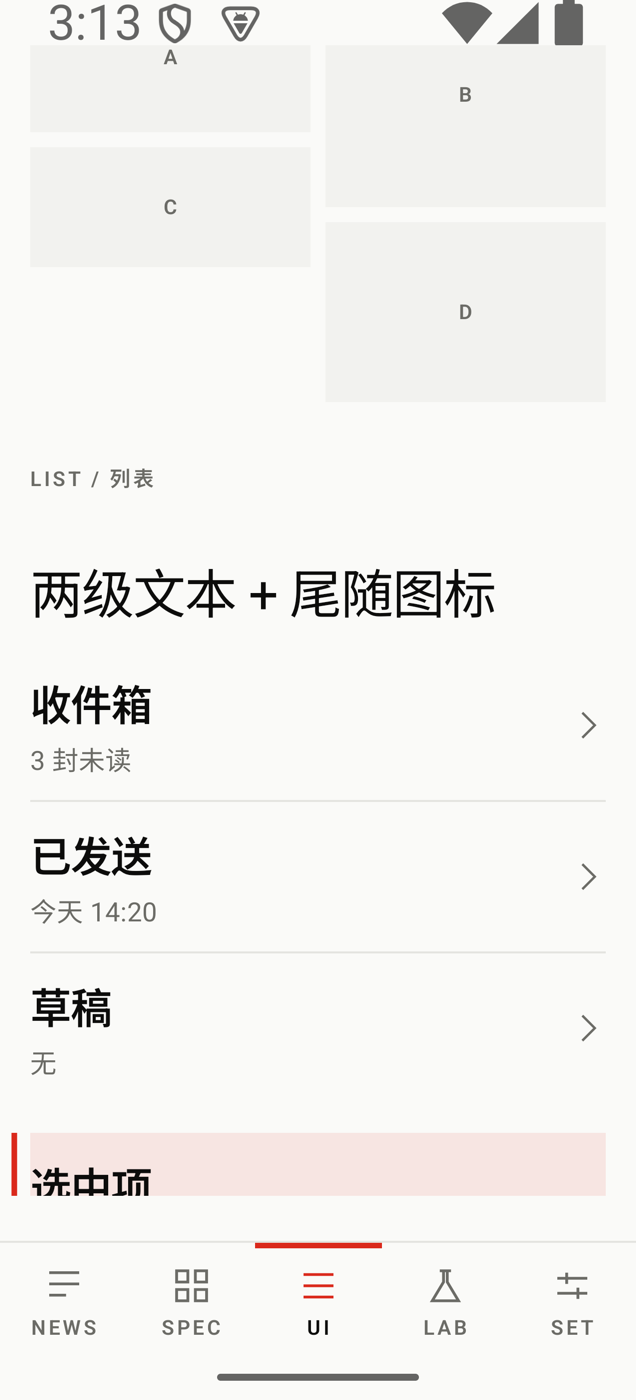
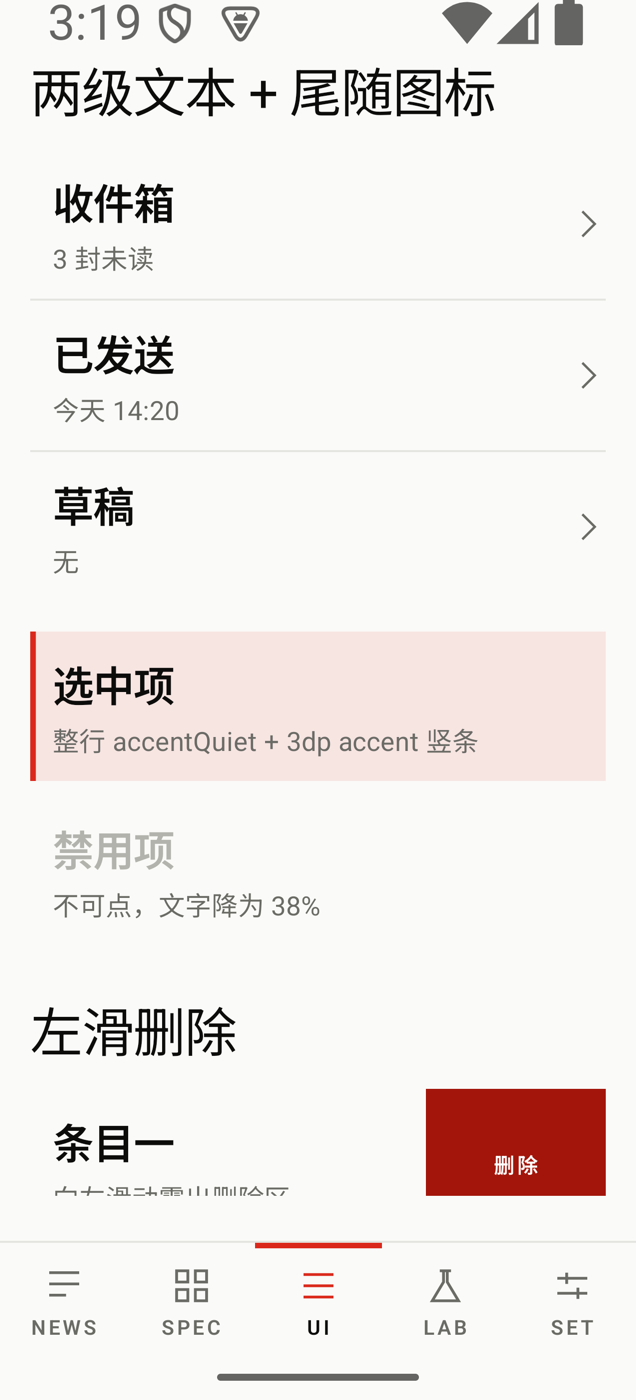
fix: v0.14.6 选中竖条回到色块内
上一版把竖条画到容器外，与 accentQuiet 色块分离。改回色块内部最左，
并给 OmListItem 加恒定 12dp 左内边距，竖条与文字保持 9dp 间隙。

注意：列表文字会比同屏磁贴右偏 12dp

diff --git a/omui-components/src/main/kotlin/io/openmetro/ui/component/content/OmList.kt b/omui-components/src/main/kotlin/io/openmetro/ui/component/content/OmList.kt
@@ -13,7 +13,6 @@ import androidx.compose.runtime.Composable
 import androidx.compose.ui.Alignment
 import androidx.compose.ui.Modifier
 import androidx.compose.ui.draw.drawBehind
-import androidx.compose.ui.geometry.Offset
 import androidx.compose.ui.geometry.Size
 import androidx.compose.ui.graphics.Color
 import androidx.compose.ui.semantics.Role
@@ -88,18 +87,16 @@ fun OmListItem(
             .background(if (selected) colors.accentQuiet else Color.Transparent)
             .drawBehind {
                 if (selected) {
-                    // 画到容器左边界之外（页边距里）：与文字留 7dp 呼吸，
-                    // 同时文字保持 flush-left 不被盖住、也不会因选中而跳动
-                    val barWidth = 3.dp.toPx()
+                    // 竖条贴在色块内部最左，与文字之间靠内边距留出 9dp
                     drawRect(
                         color = colors.accent,
-                        topLeft = Offset(x = -barWidth - 7.dp.toPx(), y = 0f),
-                        size = Size(width = barWidth, height = size.height),
+                        size = Size(width = 3.dp.toPx(), height = size.height),
                     )
                 }
             }
             .then(interaction)
             .heightIn(min = 56.dp)
+            .padding(start = 12.dp)
             .padding(vertical = spacing.space3),
         verticalAlignment = Alignment.CenterVertically,
     ) {

diff --git a/CHANGELOG.md b/CHANGELOG.md
@@ -2,6 +2,16 @@
 
 按版本倒序，只列改了什么。
 
+## v0.14.6 · 2026-10-24
+
+### 修复
+
+- `OmListItem` 的选中竖条上一版被画到了容器之外（页边距里），与 `accentQuiet` 色块分离成两个不相干的元素。改回色块内部最左，并给列表项加上恒定的 12dp 左内边距，使竖条与文字之间保持 9dp 间隙。内边距不随选中状态变化，所以不会跳动。
+
+### 变更（影响现有布局）
+
+- `OmListItem` 现在自带 12dp 左内边距。此前它完全依赖外层容器的页边距。列表文字会比同屏的磁贴向右偏 12dp。
+
 ## v0.14.5 · 2026-10-24
 
 三个真机反馈的问题。
